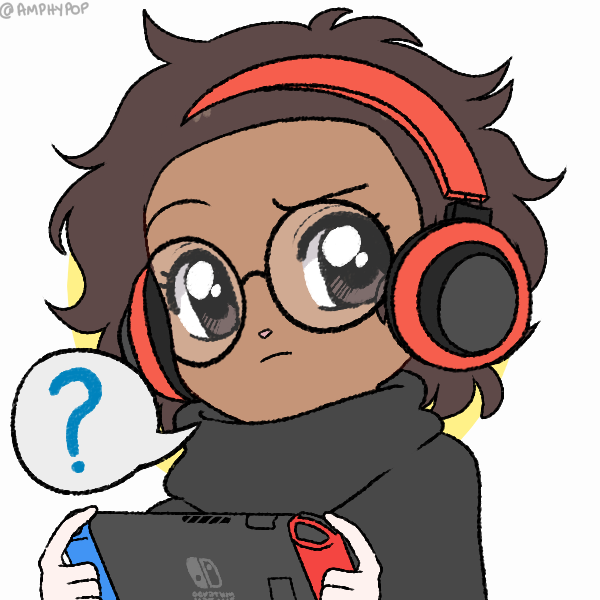
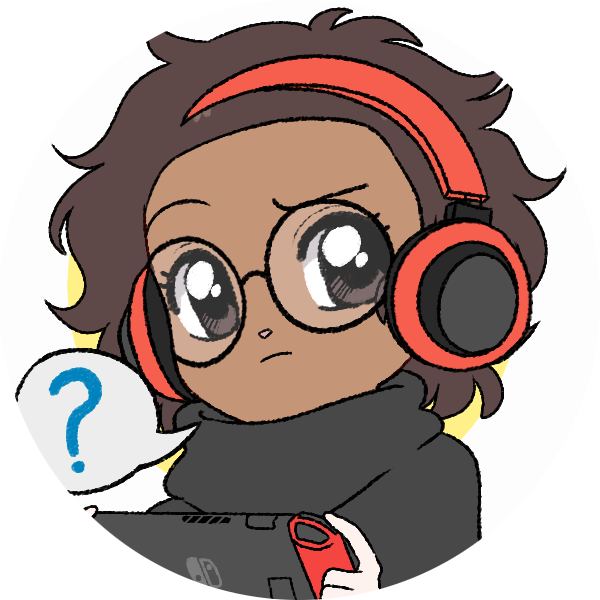
:up: nova imagem

diff --git a/README.md b/README.md
@@ -31,7 +31,7 @@ Aberto a desafios, mantenho a busca diária em novos conhecimentos e formas dife
 ### _"O primeiro passo, é acreditar!"_
 _- kauê guedes -_
 
-<img align="right" alt="GIF" src="img/profile.png" width="200px" style="border-radius: 50%" />
+<img align="right" alt="GIF" src="img/profile.png" width="200px"/>
 
 Icons made by <a href="https://www.freepik.com" title="Freepik">Freepik</a>
 from <a href="https://www.flaticon.com/" title="Flaticon">www.flaticon.com</a>
